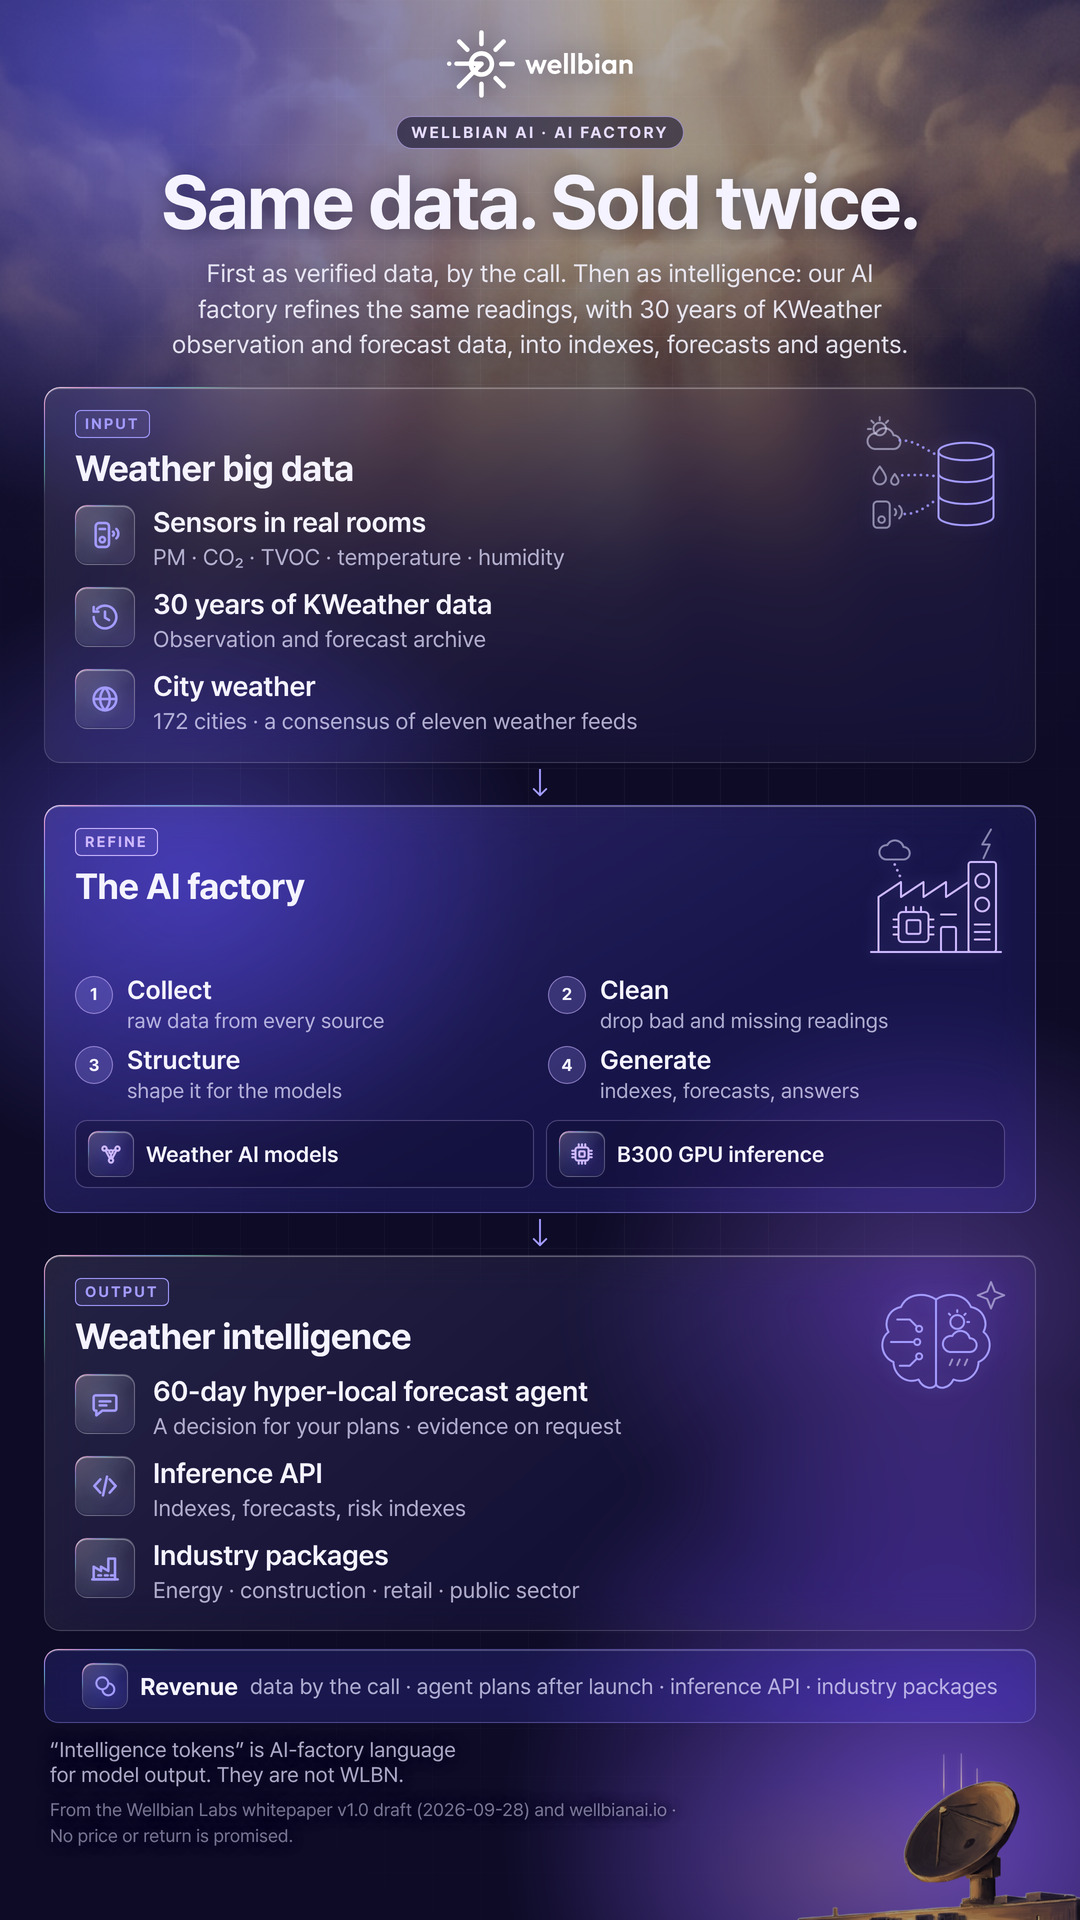
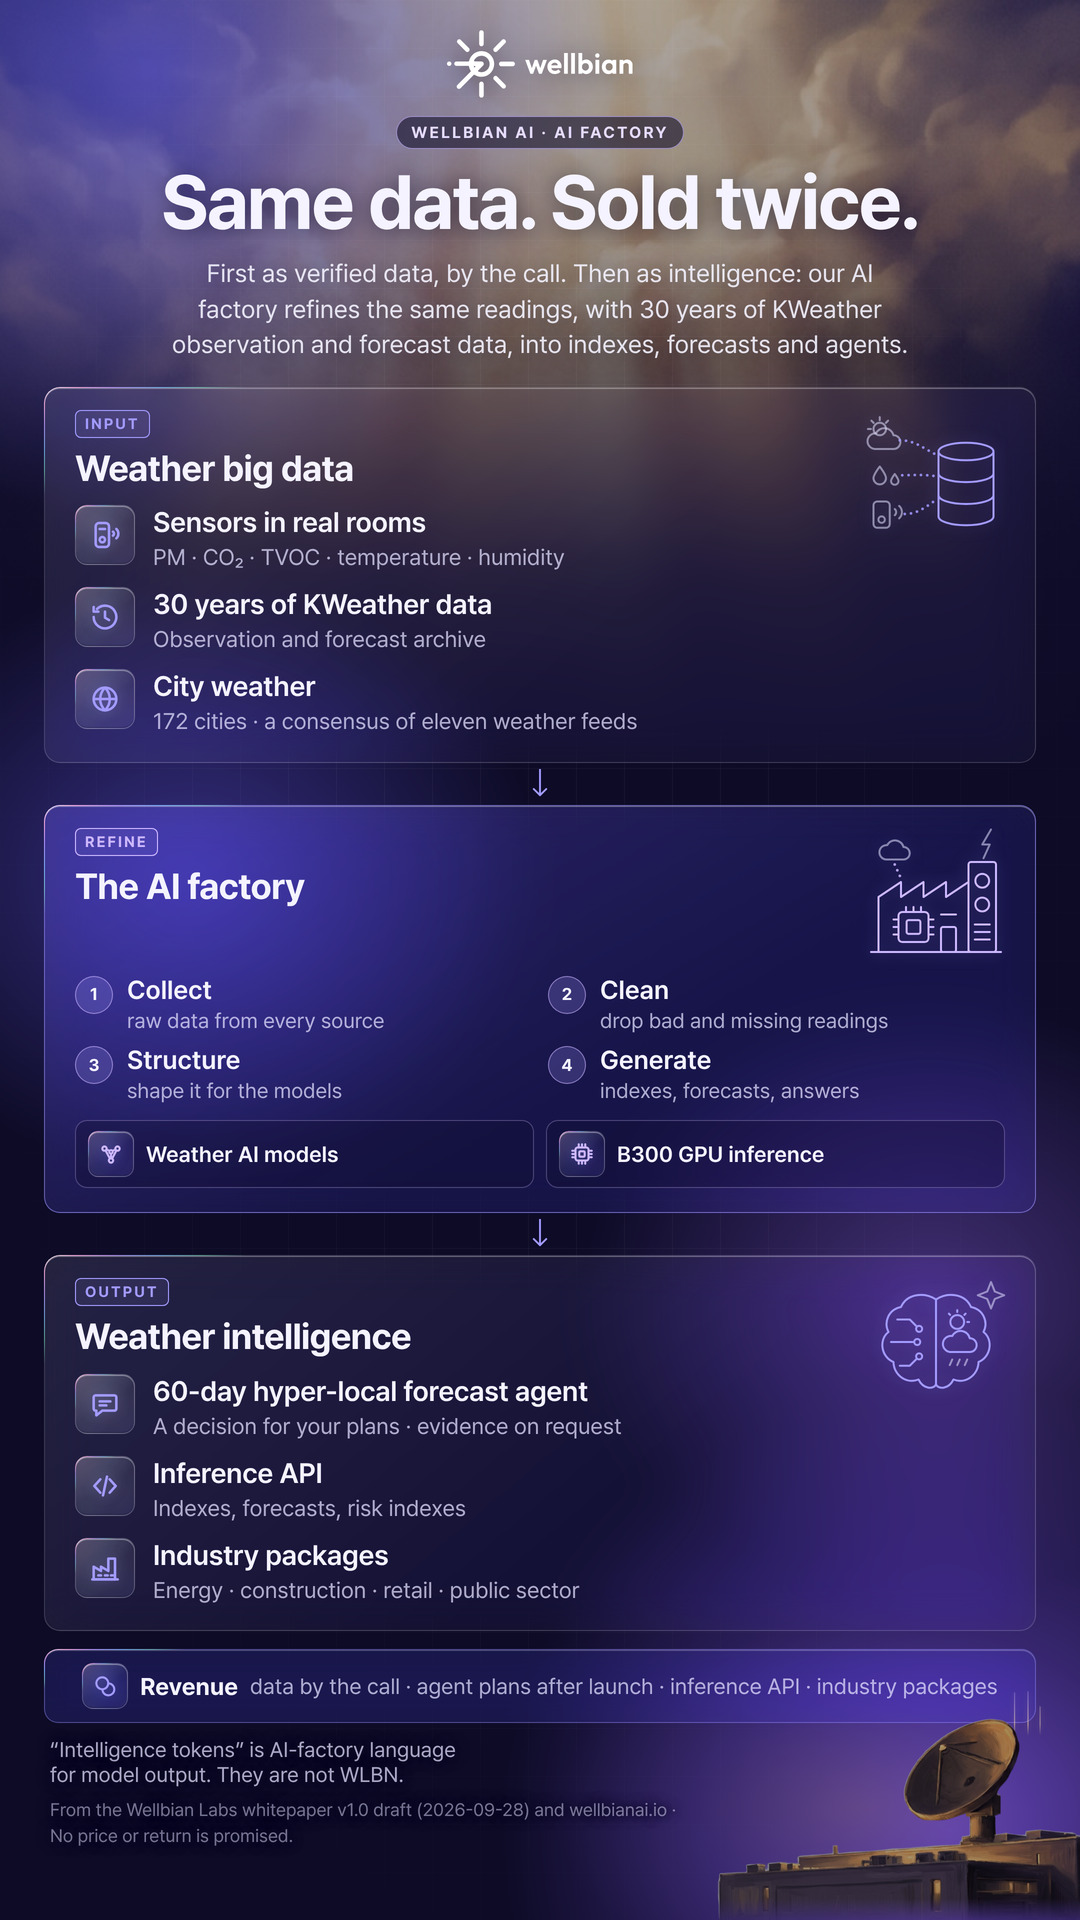
depin: lift the part 3 vertical building into full view
Claude-Session: https://claude.ai/code/session_014drgzQYBXTLjd1zzmsjRaS

Changed region(s): [[0.6417, 0.875, 1.0, 1.0]]

diff --git a/depin/content/ai-factory-1021/ai-factory-en-9x16.html b/depin/content/ai-factory-1021/ai-factory-en-9x16.html
@@ -120,9 +120,9 @@ h1{margin-top:18px;font-size:70px;font-weight:700;letter-spacing:-.025em;line-he
 
 html,body{width:1080px;height:1920px}
 body{padding:30px 44px 0;justify-content:flex-start}
-.dc{width:470px;height:210px;right:-106px;bottom:-70px}
-.dchaze{width:620px;height:360px;right:-90px;bottom:-130px}
-.streams{right:90px;bottom:122px;width:60px;height:80px}
+.dc{width:470px;height:210px;right:-106px;bottom:-8px}  /* 10/22 서우 「세로도 아래 건물이 잘 보이게」 -70 → -8 */
+.dchaze{width:620px;height:360px;right:-90px;bottom:-68px}
+.streams{right:30px;bottom:184px;width:46px;height:80px}
 .bgfx .g1{width:900px;height:900px;left:-300px;top:-380px}
 .bgfx .g2{width:900px;height:900px;right:-320px;bottom:-360px}
 .bgfx .g3{width:700px;height:600px;left:-160px;top:30%}

diff --git a/depin/content/ai-factory-1021/build.py b/depin/content/ai-factory-1021/build.py
@@ -106,9 +106,9 @@ XCSS = """
 VCSS = """
 html,body{width:1080px;height:1920px}
 body{padding:30px 44px 0;justify-content:flex-start}
-.dc{width:470px;height:210px;right:-106px;bottom:-70px}
-.dchaze{width:620px;height:360px;right:-90px;bottom:-130px}
-.streams{right:90px;bottom:122px;width:60px;height:80px}
+.dc{width:470px;height:210px;right:-106px;bottom:-8px}  /* 10/22 서우 「세로도 아래 건물이 잘 보이게」 -70 → -8 */
+.dchaze{width:620px;height:360px;right:-90px;bottom:-68px}
+.streams{right:30px;bottom:184px;width:46px;height:80px}
 .bgfx .g1{width:900px;height:900px;left:-300px;top:-380px}
 .bgfx .g2{width:900px;height:900px;right:-320px;bottom:-360px}
 .bgfx .g3{width:700px;height:600px;left:-160px;top:30%}

diff --git a/depin/reports/work-log.md b/depin/reports/work-log.md
@@ -2530,3 +2530,4 @@ Thanks Odelia — writing to you at that address today. Mine is support@wellbian
 - **연재 Part 3 14차(10/22, 서우 「절반으로 · 앞으로 빼서 레이어층」)** — 건물 1.5배(3배의 절반) · 앞층으로 올려 띠 오른쪽 끝 앞에 레이더 · 빛 기둥은 뒤층(유리 너머) · 세로판 띠 글자 높이 기둥 옅게. `content/ai-factory-1021/`.
 - **연재 Part 3 15차(10/22, 서우 「건물이 붙여 놓은 느낌 · 데이터는 가랑비처럼 · 레이더 형태 살려」)** — 건물을 단색 배경에 다시 그려 오려낸 PNG(Higgsfield 2크레딧 + 배경 제거)로 교체 · 몸체 어둡게 · 금빛 번짐 · 데이터는 점선 몇 줄만 빈 자리 위로. `content/ai-factory-1021/`.
 - **연재 Part 3 16차(10/22, 서우 「데이터 기둥 없애고 건물 + 레이더만 · 실선 몇 가지만 상징적으로」)** — 점선 → 가는 실선 4(세로 3) · 건물 · 레이더는 15차 그대로. `content/ai-factory-1021/`.
+- **연재 Part 3 17차(10/22, 서우 「세로도 하단 건물 잘 보이게」)** — 세로판 건물 62px 올림 · 실선은 띠 글자 오른쪽으로. `content/ai-factory-1021/`.

diff --git a/depin/content/ai-factory-1021/README.md b/depin/content/ai-factory-1021/README.md
@@ -36,6 +36,8 @@
 
 - **10/22 16차(서우 「데이터 기둥 없애고 건물 + 레이더만, 실선 몇 가지만 상징적으로」)**: 15차 가랑비 점선을 **가는 실선 몇 가닥**으로(가로 4 · 세로 3, 1.1~1.4px, 아래서 켜지고 위로 사라짐). 건물 · 레이더 · 배치는 15차 그대로.
 
+- **10/22 17차(서우 「가로처럼 세로도 하단에 건물이 잘 보이게」)**: 세로판 건물을 62px 올려(bottom −70 → −8) 지붕 · 창 · 몸체까지 보이게 · 뒤 금빛 번짐도 같이 올림. 레이더 위 실선은 띠 글자 끝보다 오른쪽으로(겹침 0).
+
 ## 백서 대조 (Company whitepaper v1.0 초안 2026-09-28 · wellbianai.io, 10/21 열람)
 
 | 원글 · 그림 | 백서 · 사이트 | 3편에서 |
